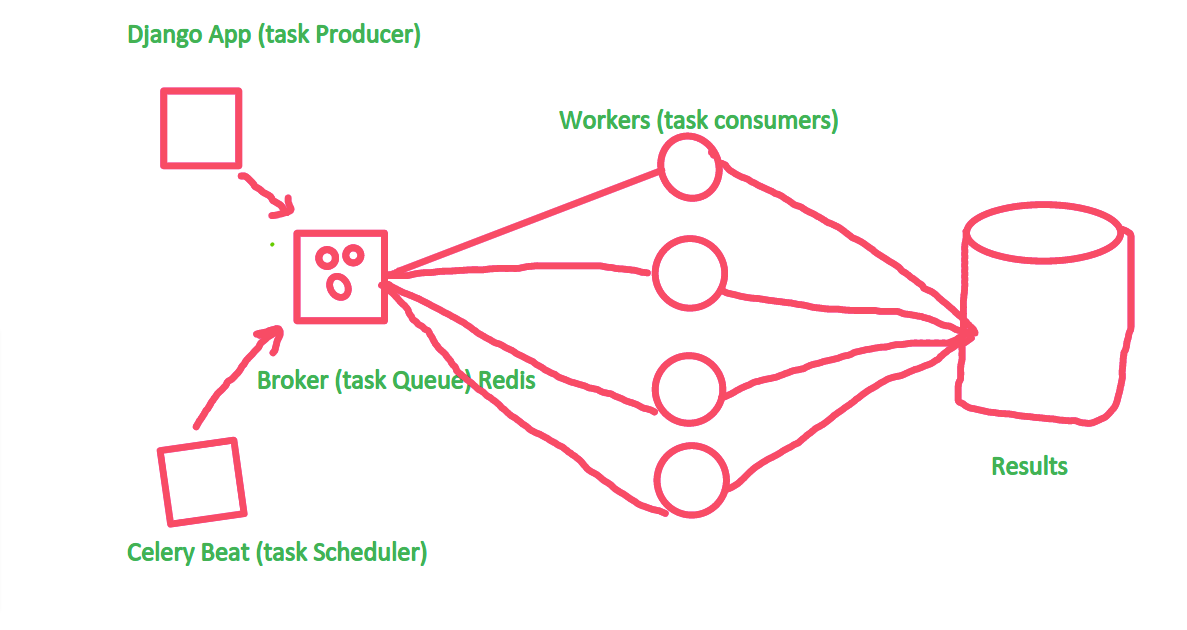
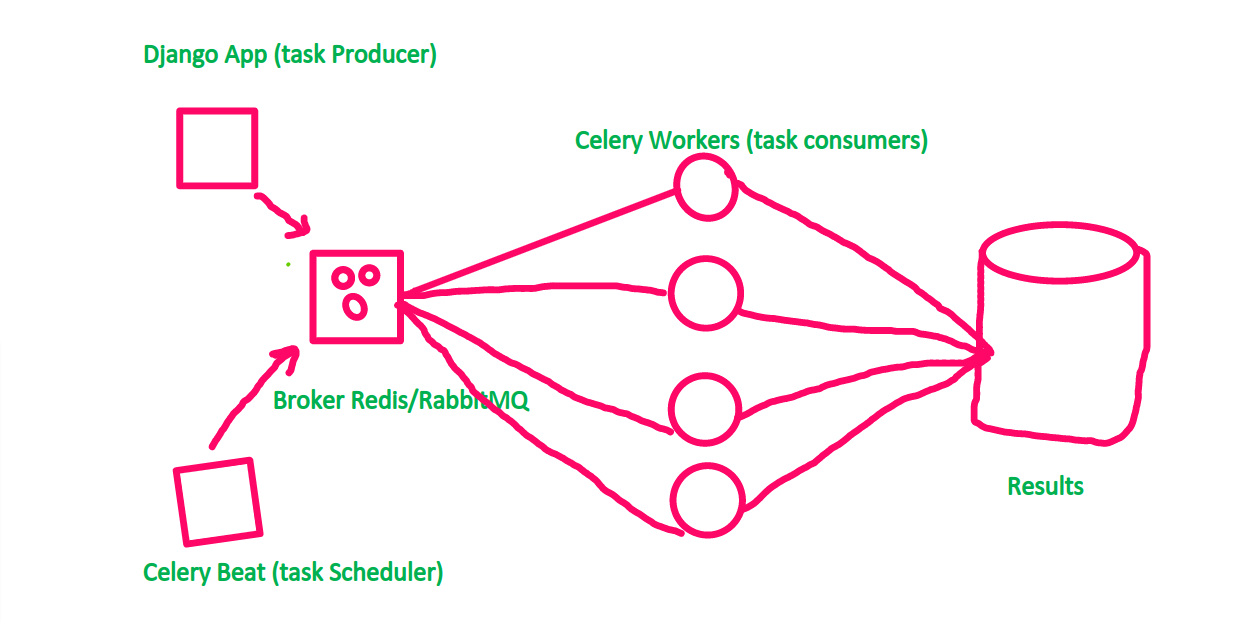
Finishing Touches part 2

Changed region(s): [[0.0935, 0.0302, 0.9663, 0.9048], [0.7793, 0.7238, 0.904, 0.7841]]

diff --git a/README.md b/README.md
@@ -23,13 +23,32 @@ This project provides following features
 1. Used Heroku Postgres 
 2. Used Daphene
 
-## What is Redis, Celery and Web Scokets and Ajax?
+## What is Redis, Celery, Celery Beat, Web Sockets, Channels, Signals, Ajax?
+In the below image I will try to explain everything.
 
-1. In this Complete 
+![alt text](https://github.com/arpansahu/clock_work/blob/master/explanation.png?raw=true)
 
+1. When a user wants to take notes and want it to email-ed. Then from Django app we send 
+    a request to Django View to create and Send a task to Redis/RabbitMQ broker. Then 
+    broker will be passing this task to celery. Moreover, since while creating a task we 
+    used celery results to save the progress in CELER_RESULT_BACKEND (django-db or redis or rabbitmq).
+    So while the task is being executed user can see progress bar via two methods:
 
-![alt text](https://github.com/arpansahu/clock_work/blob/master/Readme Images/explanation.png?raw=true)
+    - Using Ajax Call: While the process is not completed you can continuously hit the 
+      endpoint to check status fo the task. which eventually increase your server load.
+    - Using Web Sockets and channels: As soon as you load the web page you make a web socket 
+      protocol connection to the server via handshaking and once the connection is established
+      your server can directly send messages to frontend without request from the user end.
+      This channel layer is also using Redis for Quick Response. So as soon as there are any changes
+      to status of task it is notified to channel and if user is still connected to the channels, will
+      be able to see the results in progress bar.
 
+2. When a user wants to Schedule an Email as Reminder then, Via Django Application View, a cron task is created and that is 
+   assigned to Celery Beat and as soon as the scheduled time arrived it pass task to broker and then it is finally assinged 
+   to celery which finishes the task and at the end of the task, a message is passed through channels to frontend to notify about the completion of task.
+
+3. Admin can broadcast a Notification to all users using django channels and cron tab, admin can schedule the notification 
+   at the 
 ## Tech Stack
 
 [![Python](https://img.shields.io/badge/Python-3776AB?style=for-the-badge&logo=python&logoColor=white)](https://www.python.org/)
